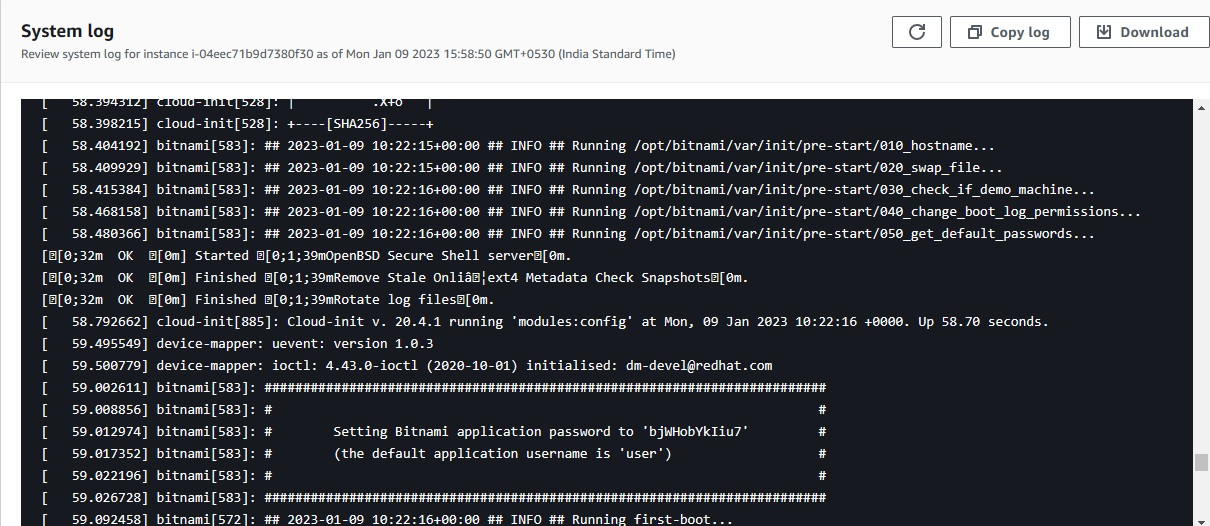
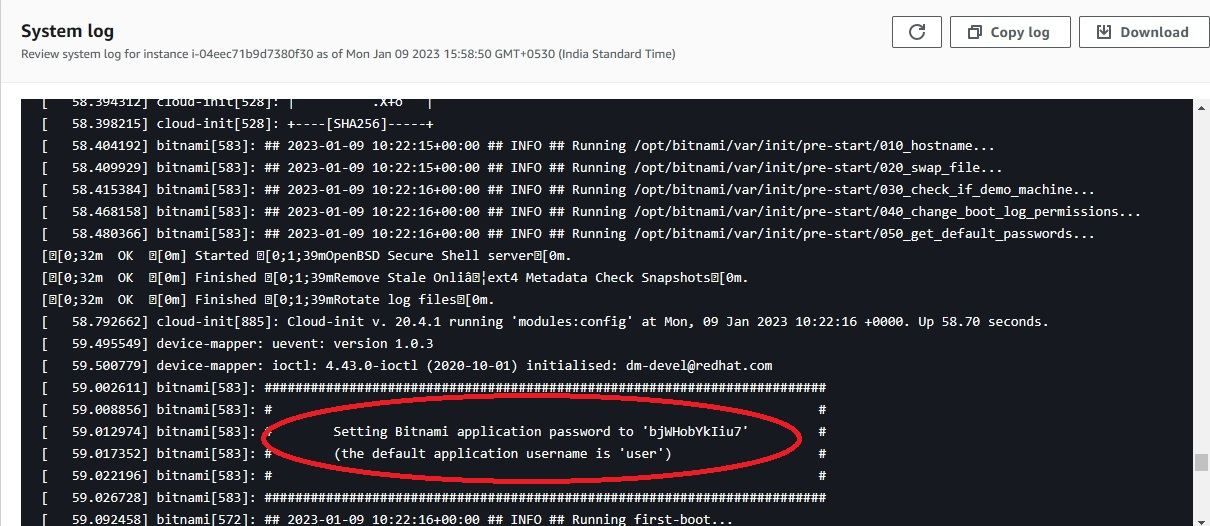
more changes

Changed region(s): [[0.214, 0.73, 0.6727, 0.943]]

diff --git a/Run Infra as Code with Jenkins/Readme.md b/Run Infra as Code with Jenkins/Readme.md
@@ -19,13 +19,16 @@
 ## To Install Jenkins
 1. Create Instance -> click on Browse mor AMI's and search for Jenkins packaged by Bitnami,select it.
    ![Jenkins Bitnami](./images/jenkinsBitnami.jpg)
-2. password = select instance ->Actions ->Instance settings -> Get system Log
+2. select keypair, Reamining all leave as default and launch the instance.
+   
+3. password = select instance ->Actions ->Instance settings -> Monitor and troubleshoot -> Get system Log. Wait for some time to load the log files , then copy the password and username from the log file, As shown in below image.
    ![username and Password](./images/userpass.jpg)
-3. Copy the public Ip of Instance and paste in the Browser.
+4. Copy the public Ip of Instance and paste in the Browser. Now enter the copied username and password. Then you can see the jenkins Dashboard after sigin.
+   
    ![sigin](./images/sigin.jpg)
-4. Install Suggested plugins
-5. manage jenkins -> manage pugins : search for cludformation plugin and install withoout restart.
-6. git hub with cloudformation template, that contains s3 Bucket code.
+5. Install Suggested plugins - Git, Pipeline , Build
+6. manage jenkins -> manage plugins : search for cloudformation plugin and install without restart.
+7. create a git hub Repositry with cloudformation template, that contains s3 Bucket code.
    ```json
    {
     "AWSTemplateFormatVersion": "2010-09-09",
@@ -46,18 +49,20 @@
     ```
 
 ## Run Cft using Cft plugin
-1. In jenkins -> create new job -> name - cftdemo-jenkinsplugin -> FreestyleProject
+1. In jenkins -> create new job -> name : cftdemo-jenkinsplugin -> FreestyleProject
 2. In source code managemment Select git:
     * Paste the source code url in Repositry URL
     * credintals - Add jenkins, and give github username and Password.
     * after that select the credentials.
+    ![Source Code Management](./images/sourcecodemanagement.jpg)
 3.  Build Environment -> Select Create AWS Cloud Formation stack.
     * Cloud Formation recipe file -> filename.json that you used in 6th point
     * stack name -> jenkinscftplugin-s3
-    * Give AWS access key and secret access key- permission to s3 and clud formation only.
+    * Now create an IAM user with s3 and cloudFormation Permissions(Programmatic access) in AWS Console.
+    * Enter AWS access key and secret access key.
 4. click save.
 5.  click on Build Now, click on no-1 and select console output
-6.  Go to clud Formation in aws and check the output
+6.  Go to cloud Formation in aws and check the output. Click on events then you can see that s3 Bucket create complete. Now go to s3 Bucket and confirm that.
 
 ## Install AWS CLI
 1. search for AWS Systems Manager in console.
